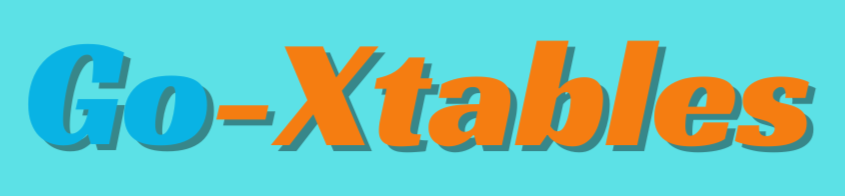
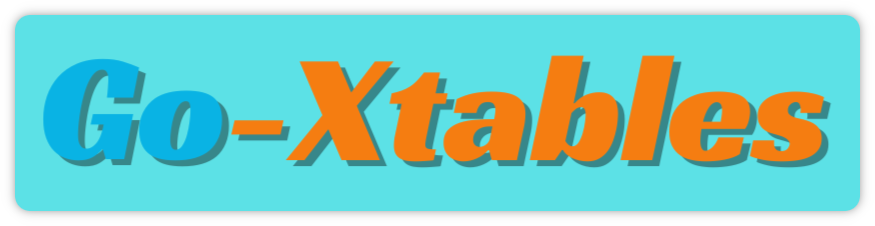
feat: update png for readme

diff --git a/README.md b/README.md
@@ -1,5 +1,5 @@
 <p align=center>
-<img src="./docs/go-xtables.png" width="60%" height="60%">
+<img src="./docs/go-xtables.png" width="35%" height="35%">
 </p>
 
 <div align="center">

diff --git a/README_cn.md b/README_cn.md
@@ -1,5 +1,5 @@
 <p align=center>
-<img src="./docs/go-xtables.png" width="60%" height="60%">
+<img src="./docs/go-xtables.png" width="35%" height="35%">
 </p>
 
 <div align="center">
